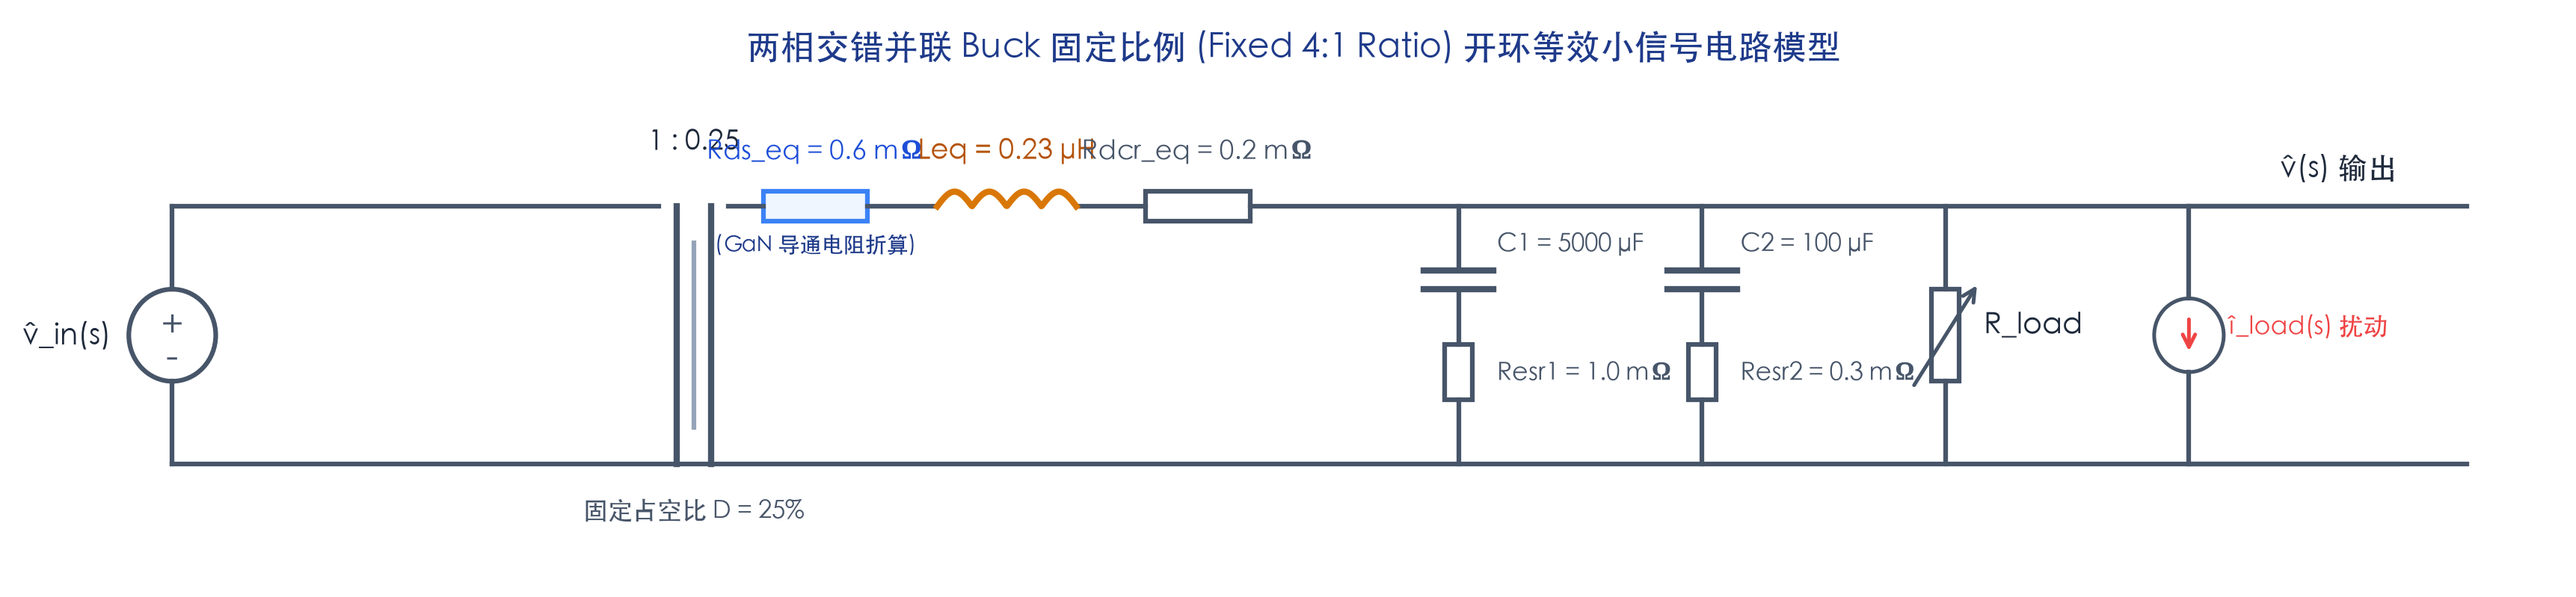
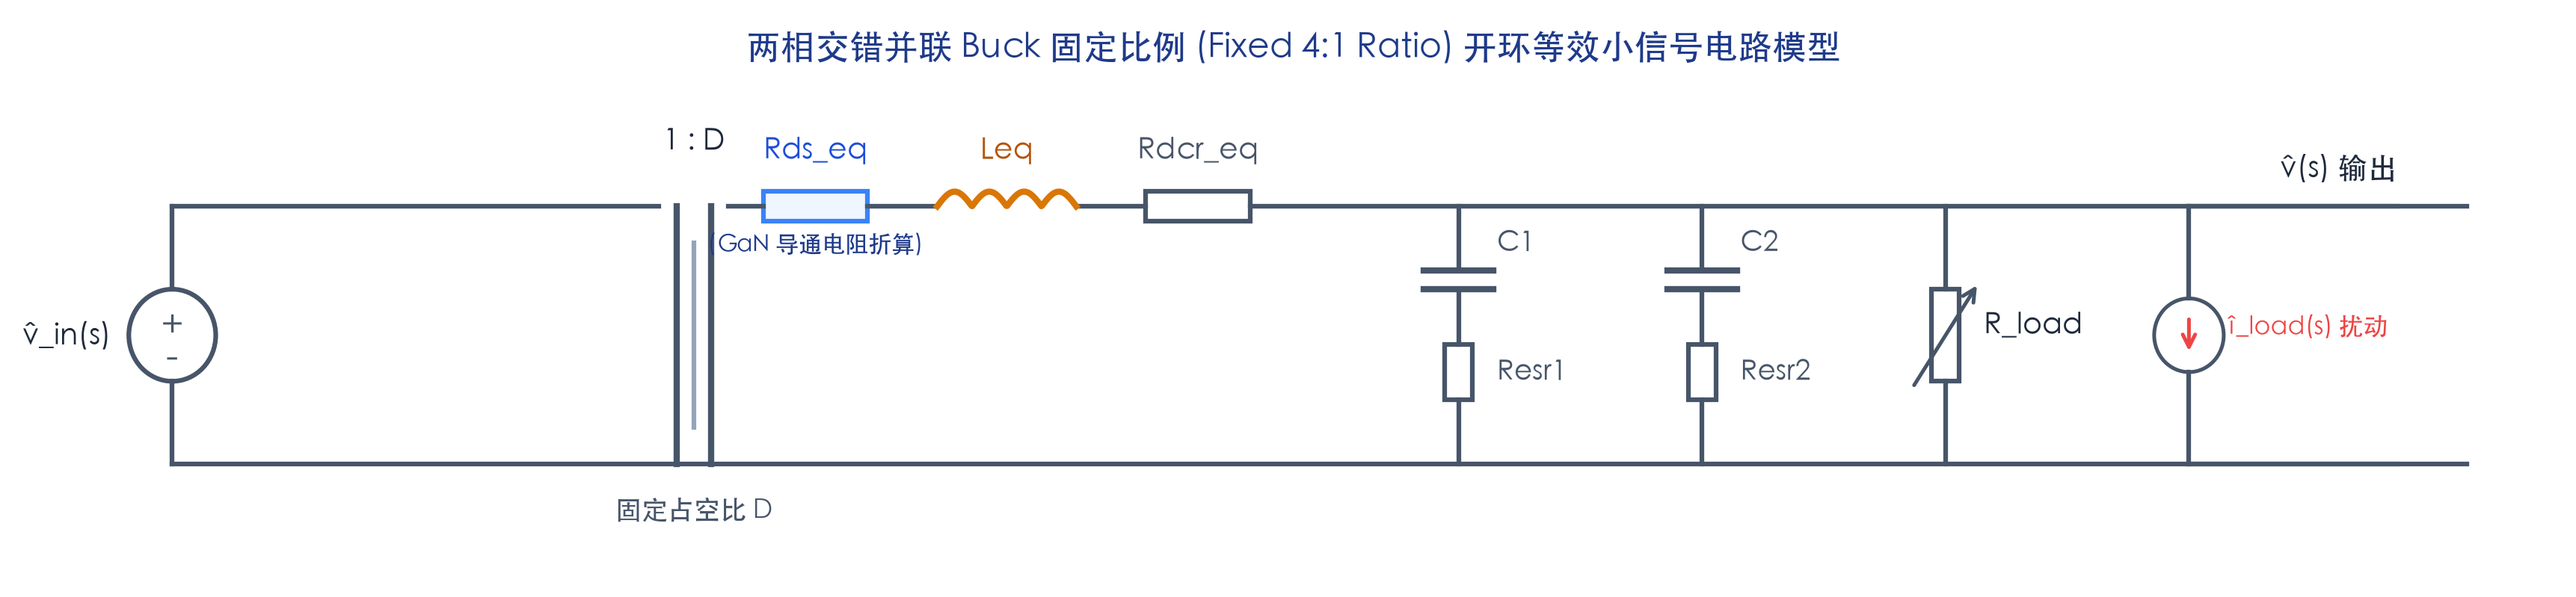
Remove all hardcoded numeric values from open-loop schematic labels for consistency

diff --git a/DesignDoc/generate_open_loop_schematic.py b/DesignDoc/generate_open_loop_schematic.py
@@ -52,8 +52,8 @@ def draw_open_loop_schematic():
     plt.plot([tx_x + 0.1, tx_x + 0.1], [y_bot, y_top], color='#475569', lw=2)
     # core line
     plt.plot([tx_x, tx_x], [y_bot+0.2, y_top-0.2], color='#94A3B8', lw=1.5)
-    ax.text(tx_x, y_top + 0.3, '1 : 0.25', fontsize=9, fontweight='bold', color='#1E293B', ha='center')
-    ax.text(tx_x, y_bot - 0.3, '固定占空比 D = 25%', fontsize=8, color='#475569', ha='center')
+    ax.text(tx_x, y_top + 0.3, '1 : D', fontsize=9.5, fontweight='bold', color='#1E293B', ha='center')
+    ax.text(tx_x, y_bot - 0.3, '固定占空比 D', fontsize=8.5, color='#475569', ha='center')
     
     # (c) Switch Equivalent Resistor Rds_eq = 0.6 mOhm (NEW - reflected GaN switch resistance)
     rsw_start = 4.2
@@ -61,8 +61,8 @@ def draw_open_loop_schematic():
     rect_rsw = patches.Rectangle((rsw_start, y_top - 0.08), rsw_end - rsw_start, 0.16,
                                  edgecolor='#3B82F6', facecolor='#EFF6FF', lw=1.5)
     ax.add_patch(rect_rsw)
-    ax.text((rsw_start+rsw_end)/2, y_top + 0.25, 'Rds_eq = 0.6 mΩ', fontsize=8.5, fontweight='bold', color='#1D4ED8', ha='center')
-    ax.text((rsw_start+rsw_end)/2, y_top - 0.25, '(GaN 导通电阻折算)', fontsize=7, color='#1E3A8A', ha='center')
+    ax.text((rsw_start+rsw_end)/2, y_top + 0.25, 'Rds_eq', fontsize=9.5, fontweight='bold', color='#1D4ED8', ha='center')
+    ax.text((rsw_start+rsw_end)/2, y_top - 0.25, '(GaN 导通电阻折算)', fontsize=7.5, color='#1E3A8A', ha='center')
     
     # (d) Inductor Leq = 0.23 uH
     lx_start = 5.2
@@ -71,7 +71,7 @@ def draw_open_loop_schematic():
     l_x = lx_start + (lx_end - lx_start) * (l_t / (4*np.pi))
     l_y = y_top + 0.08 * np.abs(np.sin(l_t))
     plt.plot(l_x, l_y, color='#D97706', lw=2)
-    ax.text((lx_start+lx_end)/2, y_top + 0.25, 'Leq = 0.23 μH', fontsize=9, fontweight='bold', color='#B45309', ha='center')
+    ax.text((lx_start+lx_end)/2, y_top + 0.25, 'Leq', fontsize=9.5, fontweight='bold', color='#B45309', ha='center')
     
     # (e) Resistor Rdcr_eq = 0.2 mOhm
     rx_start = 6.4
@@ -79,7 +79,7 @@ def draw_open_loop_schematic():
     rect_r = patches.Rectangle((rx_start, y_top - 0.08), rx_end - rx_start, 0.16,
                                edgecolor='#475569', facecolor='#FFFFFF', lw=1.5)
     ax.add_patch(rect_r)
-    ax.text((rx_start+rx_end)/2, y_top + 0.25, 'Rdcr_eq = 0.2 mΩ', fontsize=8.5, color='#475569', ha='center')
+    ax.text((rx_start+rx_end)/2, y_top + 0.25, 'Rdcr_eq', fontsize=9.5, color='#475569', ha='center')
     
     # (f) Capacitor C1 = 5000 uF
     c1_x = 8.2
@@ -92,8 +92,8 @@ def draw_open_loop_schematic():
     ax.add_patch(rect_rc1)
     plt.plot([c1_x, c1_x], [y_bot + 0.35, y_bot], color='#475569', lw=1.5)
     plt.plot([c1_x, c1_x], [y_top - 0.45, y_bot + 0.65], color='#475569', lw=1.5)
-    ax.text(c1_x + 0.22, y_top - 0.25, 'C1 = 5000 μF', fontsize=8, color='#475569')
-    ax.text(c1_x + 0.22, y_bot + 0.45, 'Resr1 = 1.0 mΩ', fontsize=8, color='#475569')
+    ax.text(c1_x + 0.22, y_top - 0.25, 'C1', fontsize=9, color='#475569')
+    ax.text(c1_x + 0.22, y_bot + 0.45, 'Resr1', fontsize=9, color='#475569')
     
     # (g) Capacitor C2 = 100 uF
     c2_x = 9.6
@@ -106,8 +106,8 @@ def draw_open_loop_schematic():
     ax.add_patch(rect_rc2)
     plt.plot([c2_x, c2_x], [y_bot + 0.35, y_bot], color='#475569', lw=1.5)
     plt.plot([c2_x, c2_x], [y_top - 0.45, y_bot + 0.65], color='#475569', lw=1.5)
-    ax.text(c2_x + 0.22, y_top - 0.25, 'C2 = 100 μF', fontsize=8, color='#475569')
-    ax.text(c2_x + 0.22, y_bot + 0.45, 'Resr2 = 0.3 mΩ', fontsize=8, color='#475569')
+    ax.text(c2_x + 0.22, y_top - 0.25, 'C2', fontsize=9, color='#475569')
+    ax.text(c2_x + 0.22, y_bot + 0.45, 'Resr2', fontsize=9, color='#475569')
     
     # (h) Load Resistor R_load = 0.124
     rl_x = 11.0
